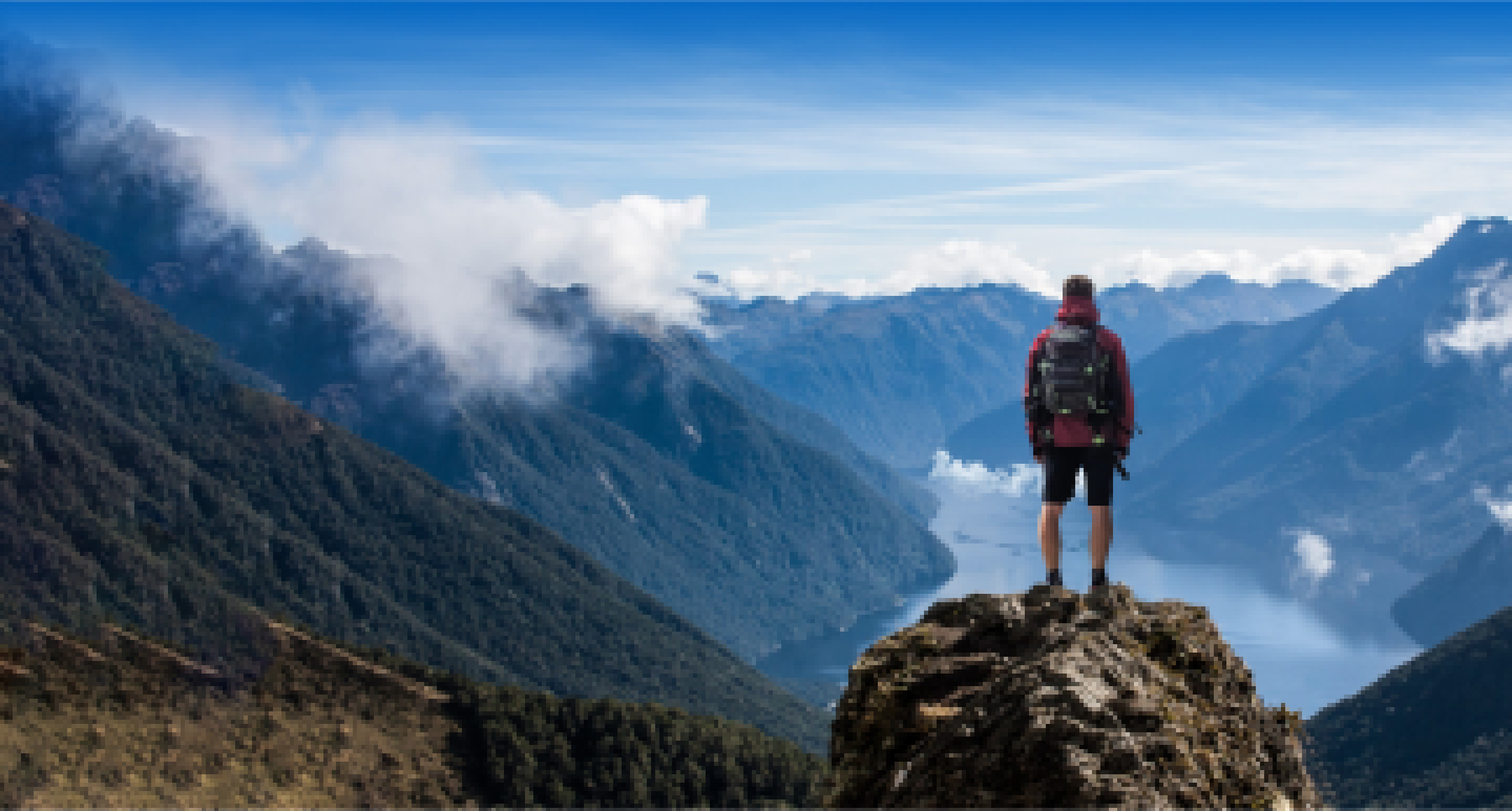
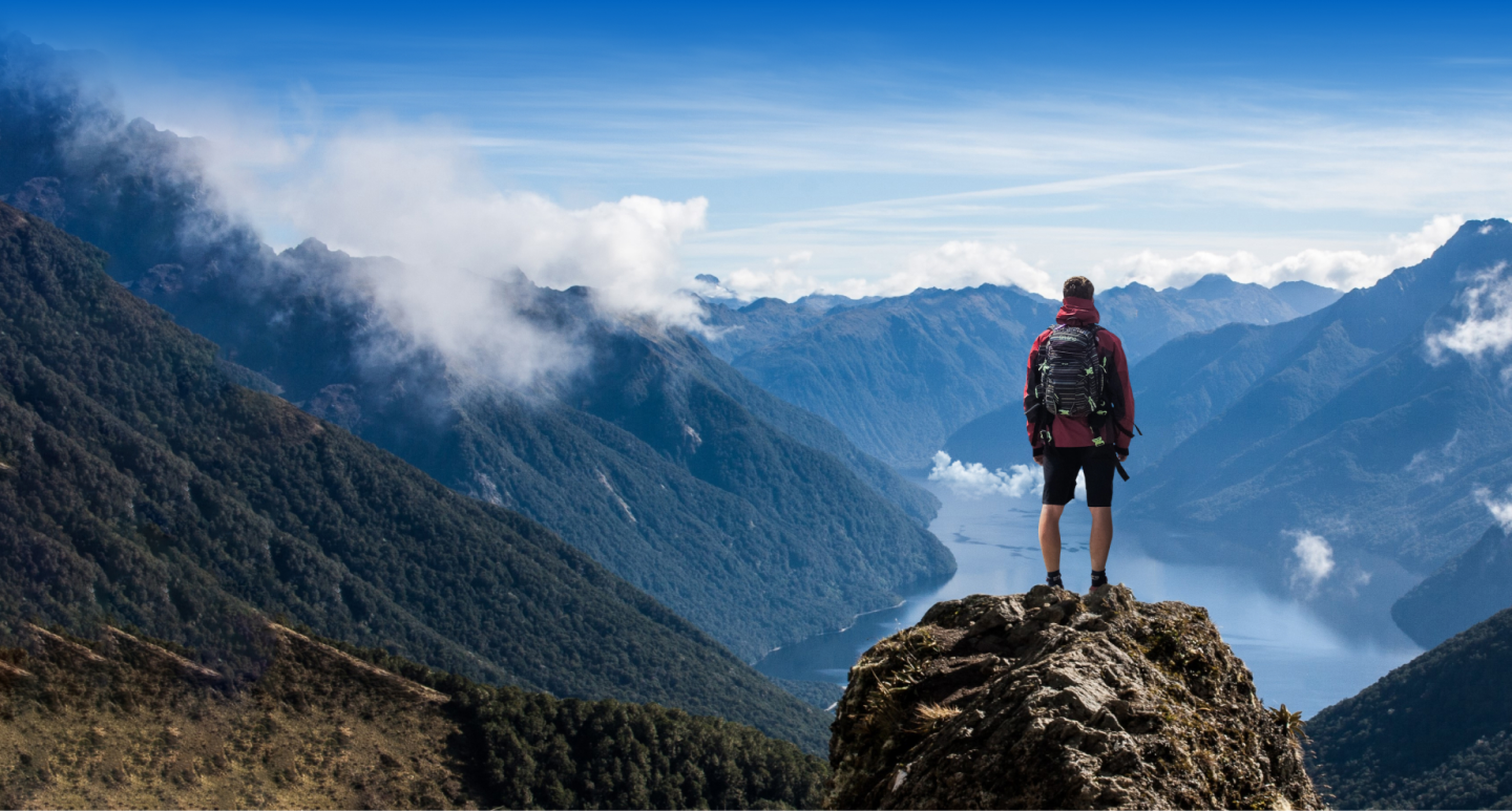
Ипсправляет графику главного экрана и ее отоброжение

diff --git a/build/css/style.min.css b/build/css/style.min.css
@@ -1,3 +1,3 @@
 /*! normalize.css v8.0.1 | MIT License | github.com/necolas/normalize.css */
-html{line-height:1.15;-webkit-text-size-adjust:100%}body{margin:0}details,img,main{display:block}h1{font-size:2em;margin:.67em 0}hr{-webkit-box-sizing:content-box;box-sizing:content-box;height:0;overflow:visible}code,kbd,pre,samp{font-family:monospace,monospace;font-size:1em}a{background-color:transparent;text-decoration:none}abbr[title]{border-bottom:none;-webkit-text-decoration:underline dotted;text-decoration:underline dotted}b,strong{font-weight:bolder}small{font-size:80%}sub,sup{font-size:75%;line-height:0;position:relative;vertical-align:baseline}sub{bottom:-.25em}sup{top:-.5em}img{border-style:none;max-width:100%;height:auto}button,input,optgroup,select,textarea{font-family:inherit;font-size:100%;line-height:1.15;margin:0}button,input{overflow:visible}button,select{text-transform:none}[type=button],[type=reset],[type=submit],button{-webkit-appearance:button}[type=button]::-moz-focus-inner,[type=reset]::-moz-focus-inner,[type=submit]::-moz-focus-inner,button::-moz-focus-inner{border-style:none;padding:0}[type=button]:-moz-focusring,[type=reset]:-moz-focusring,[type=submit]:-moz-focusring,button:-moz-focusring{outline:1px dotted ButtonText}fieldset{padding:.35em .75em .625em}legend{color:inherit;display:table;max-width:100%;white-space:normal}progress{vertical-align:baseline}textarea{overflow:auto}[type=checkbox],[type=radio],legend{-webkit-box-sizing:border-box;box-sizing:border-box;padding:0}[type=number]::-webkit-inner-spin-button,[type=number]::-webkit-outer-spin-button{height:auto}[type=search]{-webkit-appearance:textfield;outline-offset:-2px}[type=search]::-webkit-search-decoration{-webkit-appearance:none}::-webkit-file-upload-button{-webkit-appearance:button;font:inherit}summary{display:list-item}[hidden],template{display:none}@font-face{font-weight:800;font-family:"Montserrat";font-style:italic;font-display:swap;src:local("Montserrat ExtraBold Italic"),local("Montserrat-ExtraBoldItalic"),url(../fonts/montserrat-italic_800.woff2) format("woff2"),url(../fonts/montserrat-italic_800.woff) format("woff")}@font-face{font-weight:300;font-family:"Montserrat";font-style:normal;font-display:swap;src:local("Montserrat Light"),local("Montserrat-Light"),url(../fonts/montserrat_300.woff2) format("woff2"),url(../fonts/montserrat_300.woff) format("woff")}@font-face{font-weight:400;font-family:"Montserrat";font-style:normal;font-display:swap;src:local("Montserrat Regular"),local("Montserrat-Regular"),url(../fonts/montserrat_400.woff2) format("woff2"),url(../fonts/montserrat_400.woff) format("woff")}@font-face{font-weight:500;font-family:"Montserrat";font-style:normal;font-display:swap;src:local("Montserrat Medium"),local("Montserrat-Medium"),url(../fonts/montserrat_500.woff2) format("woff2"),url(../fonts/montserrat_500.woff) format("woff")}@font-face{font-weight:700;font-family:"Montserrat";font-style:normal;font-display:swap;src:local("Montserrat Bold"),local("Montserrat-Bold"),url(../fonts/montserrat_700.woff2) format("woff2"),url(../fonts/montserrat_700.woff) format("woff")}@font-face{font-weight:800;font-family:"Montserrat";font-style:normal;font-display:swap;src:local("Montserrat ExtraBold"),local("Montserrat-ExtraBold"),url(../fonts/montserrat_800.woff2) format("woff2"),url(../fonts/montserrat_800.woff) format("woff")}@font-face{font-weight:900;font-family:"Montserrat";font-style:normal;font-display:swap;src:local("Montserrat Black"),local("Montserrat-Black"),url(../fonts/montserrat_900.woff2) format("woff2"),url(../fonts/montserrat_900.woff) format("woff")}body,html{max-width:100%;height:100%;overflow-x:hidden;scroll-behavior:smooth}html{-webkit-box-sizing:border-box;box-sizing:border-box}body{position:relative;display:-webkit-box;display:-ms-flexbox;display:flex;-webkit-box-orient:vertical;-webkit-box-direction:normal;-ms-flex-direction:column;flex-direction:column;min-width:320px;font-family:"Montserrat","Arial",sans-serif;font-size:16px;font-weight:400;line-height:24px;color:#2d383f;background-color:#fff}*,::after,::before{-webkit-box-sizing:inherit;box-sizing:inherit}main{-webkit-box-flex:1;-ms-flex:1 0 auto;flex:1 0 auto}input,textarea{border-radius:0}svg{fill:inherit}.no-scroll{height:100%;overflow:hidden}.visually-hidden:not(:focus),input[type=checkbox].visually-hidden,input[type=radio].visually-hidden{position:absolute;width:1px;height:1px;margin:-1px;padding:0;overflow:hidden;white-space:nowrap;border:0;clip:rect(0,0,0,0);-webkit-clip-path:inset(100%);clip-path:inset(100%)}.button{font:inherit;border:0;display:inline-block;padding:18px 40px 0;min-height:60px;font-family:"Montserrat","Arial",sans-serif;font-size:16px;font-weight:400;line-height:158.86%;color:#fff;text-align:center;-webkit-box-sizing:border-box;box-sizing:border-box;background:0 0;background-color:#0266c1;cursor:pointer;-webkit-transition:all .3s ease-in 0s;transition:all .3s ease-in 0s}.button:focus,.button:hover{-webkit-transform:scale(1.2);transform:scale(1.2)}.button:active{color:#fff;-webkit-box-shadow:inset 0 0 0 3px #0266c1;box-shadow:inset 0 0 0 3px #0266c1;background-color:transparent}@media (max-width:1023px){.button{min-height:47px;padding-top:12px;padding-right:23px;padding-left:23px;font-size:14px}}.logo,.logo p,.social{display:-webkit-box;display:-ms-flexbox;display:flex}.logo{-webkit-box-align:center;-ms-flex-align:center;align-items:center}.logo p,.logo svg{-ms-flex-negative:0;flex-shrink:0}.logo svg{display:block;width:62px;height:auto;margin-right:22px;fill:#fff}.logo p,.social{margin:0}.logo p{-webkit-box-orient:vertical;-webkit-box-direction:normal;-ms-flex-direction:column;flex-direction:column;padding-top:5px}.logo b,.logo span{font-family:"Montserrat","Arial",sans-serif}.logo b{margin-bottom:2px;font-style:italic;text-transform:uppercase;font-size:23px;font-weight:800;line-height:28px}.logo span{font-size:8px;font-weight:400;line-height:10px}@media (max-width:1023px){.logo svg{width:37px;margin-right:13px}.logo p{padding-top:0}.logo b{margin-bottom:1px;font-size:16px;line-height:20px}.logo span{font-size:6px;line-height:7px}}@media (max-width:767px){.logo svg{width:30px;margin-right:10px}.logo b{font-size:12px;line-height:15px}.logo span{font-size:4.3px;line-height:5px}}.social{padding:0;list-style:none;-ms-flex-wrap:wrap;flex-wrap:wrap}.social__item{width:21px;height:21px;margin-right:17px}.page-header__nav-list li:last-child,.social__item:last-child{margin-right:0}.social__item a{display:-webkit-box;display:-ms-flexbox;display:flex;-webkit-box-pack:center;-ms-flex-pack:center;justify-content:center;-webkit-box-align:center;-ms-flex-align:center;align-items:center;height:100%;background-color:rgba(2,102,193,.43);-webkit-transition:all .3s ease-in 0s;transition:all .3s ease-in 0s}.social__item a:focus,.social__item a:hover{background-color:#0266c1;-webkit-transform:scale(1.2);transform:scale(1.2)}.social__item a:active{background-color:#fff}.social__item a:active svg{fill:#0266c1}.page-header a,.social__item svg{-webkit-transition:all .3s ease-in 0s;transition:all .3s ease-in 0s}.social__item svg{display:block;fill:#fff}.page-header{position:absolute;top:42px;left:0;z-index:10;width:100%;font-family:"Montserrat","Arial",sans-serif;font-size:16px;font-weight:400;line-height:25px;color:#fff;background-color:transparent}.page-header a{color:inherit}.page-header a[href]:focus,.page-header a[href]:hover{color:#2d383f;-webkit-transform:scale(1.2);transform:scale(1.2)}.page-header a[href]:focus svg,.page-header a[href]:hover svg{-webkit-transition:all .3s ease-in 0s;transition:all .3s ease-in 0s;fill:#2d383f}.page-header a:active{opacity:.5}.page-header__inner{max-width:1440px;margin:0 auto;padding:0 120px}.page-header__nav-toggle{display:none}.page-header__content{display:-webkit-box;display:-ms-flexbox;display:flex;-webkit-box-align:center;-ms-flex-align:center;align-items:center}.page-header__logo{margin-right:7%}.page-header__nav{-webkit-box-flex:1;-ms-flex-positive:1;flex-grow:1;max-width:658px;padding-top:10px}.page-header__nav-list{margin:0;padding:0;list-style:none;display:-webkit-box;display:-ms-flexbox;display:flex;-webkit-box-align:center;-ms-flex-align:center;align-items:center;-ms-flex-wrap:wrap;flex-wrap:wrap}.page-header__nav-list li{margin-right:7.2%}.page-header__nav-list a{display:block}.page-header__phone{-ms-flex-negative:0;flex-shrink:0;margin-top:10px;margin-left:8.3%;font-family:"Montserrat","Arial",sans-serif;font-size:19px;font-weight:700;line-height:30px}@media (max-width:1023px){.page-header{top:36px}.page-header__inner{max-width:1023px;margin:0 auto;padding:0 110px;display:-webkit-box;display:-ms-flexbox;display:flex;-webkit-box-align:center;-ms-flex-align:center;align-items:center}.page-header__nav-toggle{padding:0;font:inherit;color:inherit;border:0;display:block;height:16px;margin-right:auto;background-color:transparent;cursor:pointer}.page-header__nav-toggle svg{display:block;-webkit-transition:all .3s ease-in 0s;transition:all .3s ease-in 0s;fill:#fff}.page-header__nav-toggle:focus svg,.page-header__nav-toggle:hover svg{-webkit-transform:scale(1.2);transform:scale(1.2);fill:#2d383f}.page-header__nav-toggle:active{opacity:.5}.page-header__logo{margin-right:64px}.page-header__nav{display:none}.page-header__phone{margin-top:0;margin-left:0;font-size:16px;line-height:25px}}@media (max-width:767px){.page-header{top:13px}.page-header__inner{max-width:767px;margin:0 auto;padding:0 20px}.page-header__content{-webkit-box-orient:vertical;-webkit-box-direction:normal;-ms-flex-direction:column;flex-direction:column;-webkit-box-align:end;-ms-flex-align:end;align-items:flex-end}.page-header__logo{margin-right:0;margin-bottom:5px}.page-header__phone{font-size:14px;line-height:22px}}.banner,.banner::after{background-position:0 0;background-size:cover}.banner{font-family:"Montserrat","Arial",sans-serif;font-size:19px;font-weight:400;line-height:148.6%;color:#fff;background-color:#2d383f;min-height:774px;position:relative;background-image:url(../img/banner-landscape_desktop@1x.jpg);background-repeat:no-repeat}@media (-webkit-min-device-pixel-ratio:1.5),(min-resolution:144dpi),(min-resolution:1.5dppx){.banner{background-image:url(../img/banner-landscape_desktop@2x.jpg)}}.banner::after{content:"";position:absolute;bottom:-144px;left:0;width:100%;height:300px;background-image:url(../img/banner-bottom-clouds_desktop@1x.png);background-repeat:repeat}@media (-webkit-min-device-pixel-ratio:1.5),(min-resolution:144dpi),(min-resolution:1.5dppx){.banner::after{background-image:url(../img/banner-bottom-clouds_desktop@2x.png)}}.banner__inner{max-width:1440px;margin:0 auto;padding:0 120px;display:-webkit-box;display:-ms-flexbox;display:flex;-webkit-box-orient:vertical;-webkit-box-direction:normal;-ms-flex-direction:column;flex-direction:column}.banner__intro{position:relative;padding-top:294px}.banner__intro h1,.banner__intro::before{font-family:"Montserrat","Arial",sans-serif}.banner__intro h1{margin:0 0 8px;font-size:45px;font-weight:800;line-height:55px}.banner__intro p{max-width:480px;margin:0}.banner__intro::before{content:"trekking";position:absolute;top:248px;left:0;font-size:93px;font-weight:900;line-height:113px;letter-spacing:.07em;color:rgba(245,249,252,.2);text-transform:uppercase}.banner__button{margin-top:42px}.banner__social{margin-top:110px;margin-left:auto}@media (max-width:1023px){.banner{min-height:628px;font-size:16px;background-image:url(../img/banner-landscape_tablet@1x.jpg)}}@media (max-width:1023px) and (-webkit-min-device-pixel-ratio:1.5),(max-width:1023px) and (min-resolution:144dpi),(max-width:1023px) and (min-resolution:1.5dppx){.banner{background-image:url(../img/banner-landscape_tablet@2x.jpg)}}@media (max-width:1023px){.banner::after{bottom:-148px;background-position:-223px 0}.banner__inner{max-width:1023px;margin:0 auto;padding:0 110px}.banner__intro{padding-top:200px}.banner__intro::before{top:167px;font-size:69px;line-height:84px}.banner__intro h1{max-width:300px;margin-bottom:15px;font-size:35px;line-height:43px}.banner__intro p{max-width:410px}.banner__button{margin-top:30px}.banner__social{margin-top:90px}}@media (max-width:767px){.banner{min-height:470px;font-size:14px;background-image:url(../img/banner-landscape_mobile@1x.jpg)}}@media (max-width:767px) and (-webkit-min-device-pixel-ratio:1.5),(max-width:767px) and (min-resolution:144dpi),(max-width:767px) and (min-resolution:1.5dppx){.banner{background-image:url(../img/banner-landscape_mobile@2x.jpg)}}@media (max-width:767px){.banner::after{bottom:-97px;height:200px;background-image:url(../img/banner-bottom-clouds_mobile@1x.png);background-position:-211px 0}.banner__inner{max-width:767px;margin:0 auto;padding:0 20px}.banner__intro{padding-top:150px}.banner__intro::before{top:137px;font-size:41px;line-height:50px}.banner__intro h1{margin-bottom:9px;font-size:27px;line-height:33px}.banner__intro p{max-width:75%}.banner__button{margin-top:28px}.banner__social{display:none}}
+html{line-height:1.15;-webkit-text-size-adjust:100%}body{margin:0}details,img,main{display:block}h1{font-size:2em;margin:.67em 0}hr{-webkit-box-sizing:content-box;box-sizing:content-box;height:0;overflow:visible}code,kbd,pre,samp{font-family:monospace,monospace;font-size:1em}a{background-color:transparent;text-decoration:none}abbr[title]{border-bottom:none;-webkit-text-decoration:underline dotted;text-decoration:underline dotted}b,strong{font-weight:bolder}small{font-size:80%}sub,sup{font-size:75%;line-height:0;position:relative;vertical-align:baseline}sub{bottom:-.25em}sup{top:-.5em}img{border-style:none;max-width:100%;height:auto}button,input,optgroup,select,textarea{font-family:inherit;font-size:100%;line-height:1.15;margin:0}button,input{overflow:visible}button,select{text-transform:none}[type=button],[type=reset],[type=submit],button{-webkit-appearance:button}[type=button]::-moz-focus-inner,[type=reset]::-moz-focus-inner,[type=submit]::-moz-focus-inner,button::-moz-focus-inner{border-style:none;padding:0}[type=button]:-moz-focusring,[type=reset]:-moz-focusring,[type=submit]:-moz-focusring,button:-moz-focusring{outline:1px dotted ButtonText}fieldset{padding:.35em .75em .625em}legend{color:inherit;display:table;max-width:100%;white-space:normal}progress{vertical-align:baseline}textarea{overflow:auto}[type=checkbox],[type=radio],legend{-webkit-box-sizing:border-box;box-sizing:border-box;padding:0}[type=number]::-webkit-inner-spin-button,[type=number]::-webkit-outer-spin-button{height:auto}[type=search]{-webkit-appearance:textfield;outline-offset:-2px}[type=search]::-webkit-search-decoration{-webkit-appearance:none}::-webkit-file-upload-button{-webkit-appearance:button;font:inherit}summary{display:list-item}[hidden],template{display:none}@font-face{font-weight:800;font-family:"Montserrat";font-style:italic;font-display:swap;src:local("Montserrat ExtraBold Italic"),local("Montserrat-ExtraBoldItalic"),url(../fonts/montserrat-italic_800.woff2) format("woff2"),url(../fonts/montserrat-italic_800.woff) format("woff")}@font-face{font-weight:300;font-family:"Montserrat";font-style:normal;font-display:swap;src:local("Montserrat Light"),local("Montserrat-Light"),url(../fonts/montserrat_300.woff2) format("woff2"),url(../fonts/montserrat_300.woff) format("woff")}@font-face{font-weight:400;font-family:"Montserrat";font-style:normal;font-display:swap;src:local("Montserrat Regular"),local("Montserrat-Regular"),url(../fonts/montserrat_400.woff2) format("woff2"),url(../fonts/montserrat_400.woff) format("woff")}@font-face{font-weight:500;font-family:"Montserrat";font-style:normal;font-display:swap;src:local("Montserrat Medium"),local("Montserrat-Medium"),url(../fonts/montserrat_500.woff2) format("woff2"),url(../fonts/montserrat_500.woff) format("woff")}@font-face{font-weight:700;font-family:"Montserrat";font-style:normal;font-display:swap;src:local("Montserrat Bold"),local("Montserrat-Bold"),url(../fonts/montserrat_700.woff2) format("woff2"),url(../fonts/montserrat_700.woff) format("woff")}@font-face{font-weight:800;font-family:"Montserrat";font-style:normal;font-display:swap;src:local("Montserrat ExtraBold"),local("Montserrat-ExtraBold"),url(../fonts/montserrat_800.woff2) format("woff2"),url(../fonts/montserrat_800.woff) format("woff")}@font-face{font-weight:900;font-family:"Montserrat";font-style:normal;font-display:swap;src:local("Montserrat Black"),local("Montserrat-Black"),url(../fonts/montserrat_900.woff2) format("woff2"),url(../fonts/montserrat_900.woff) format("woff")}body,html{max-width:100%;height:100%;overflow-x:hidden;scroll-behavior:smooth}html{-webkit-box-sizing:border-box;box-sizing:border-box}body{position:relative;display:-webkit-box;display:-ms-flexbox;display:flex;-webkit-box-orient:vertical;-webkit-box-direction:normal;-ms-flex-direction:column;flex-direction:column;min-width:320px;font-family:"Montserrat","Arial",sans-serif;font-size:16px;font-weight:400;line-height:24px;color:#2d383f;background-color:#fff}*,::after,::before{-webkit-box-sizing:inherit;box-sizing:inherit}main{-webkit-box-flex:1;-ms-flex:1 0 auto;flex:1 0 auto}input,textarea{border-radius:0}svg{fill:inherit}.no-scroll{height:100%;overflow:hidden}.visually-hidden:not(:focus),input[type=checkbox].visually-hidden,input[type=radio].visually-hidden{position:absolute;width:1px;height:1px;margin:-1px;padding:0;overflow:hidden;white-space:nowrap;border:0;clip:rect(0,0,0,0);-webkit-clip-path:inset(100%);clip-path:inset(100%)}.button{font:inherit;border:0;display:inline-block;padding:18px 40px 0;min-height:60px;font-family:"Montserrat","Arial",sans-serif;font-size:16px;font-weight:400;line-height:158.86%;color:#fff;text-align:center;-webkit-box-sizing:border-box;box-sizing:border-box;background:0 0;background-color:#0266c1;cursor:pointer;-webkit-transition:all .3s ease-in 0s;transition:all .3s ease-in 0s}.button:focus,.button:hover{-webkit-transform:scale(1.2);transform:scale(1.2)}.button:active{color:#fff;-webkit-box-shadow:inset 0 0 0 3px #0266c1;box-shadow:inset 0 0 0 3px #0266c1;background-color:transparent}@media (max-width:1023px){.button{min-height:47px;padding-top:12px;padding-right:23px;padding-left:23px;font-size:14px}}.logo,.logo p,.social{display:-webkit-box;display:-ms-flexbox;display:flex}.logo{-webkit-box-align:center;-ms-flex-align:center;align-items:center}.logo p,.logo svg{-ms-flex-negative:0;flex-shrink:0}.logo svg{display:block;width:62px;height:auto;margin-right:22px;fill:#fff}.logo p,.social{margin:0}.logo p{-webkit-box-orient:vertical;-webkit-box-direction:normal;-ms-flex-direction:column;flex-direction:column;padding-top:5px}.logo b,.logo span{font-family:"Montserrat","Arial",sans-serif}.logo b{margin-bottom:2px;font-style:italic;text-transform:uppercase;font-size:23px;font-weight:800;line-height:28px}.logo span{font-size:8px;font-weight:400;line-height:10px}@media (max-width:1023px){.logo svg{width:37px;margin-right:13px}.logo p{padding-top:0}.logo b{margin-bottom:1px;font-size:16px;line-height:20px}.logo span{font-size:6px;line-height:7px}}@media (max-width:767px){.logo svg{width:30px;margin-right:10px}.logo b{font-size:12px;line-height:15px}.logo span{font-size:4.3px;line-height:5px}}.social{padding:0;list-style:none;-ms-flex-wrap:wrap;flex-wrap:wrap}.social__item{width:21px;height:21px;margin-right:17px}.page-header__nav-list li:last-child,.social__item:last-child{margin-right:0}.social__item a{display:-webkit-box;display:-ms-flexbox;display:flex;-webkit-box-pack:center;-ms-flex-pack:center;justify-content:center;-webkit-box-align:center;-ms-flex-align:center;align-items:center;height:100%;background-color:rgba(2,102,193,.43);-webkit-transition:all .3s ease-in 0s;transition:all .3s ease-in 0s}.social__item a:focus,.social__item a:hover{background-color:#0266c1;-webkit-transform:scale(1.2);transform:scale(1.2)}.social__item a:active{background-color:#fff}.social__item a:active svg{fill:#0266c1}.page-header a,.social__item svg{-webkit-transition:all .3s ease-in 0s;transition:all .3s ease-in 0s}.social__item svg{display:block;fill:#fff}.page-header{position:absolute;top:42px;left:0;z-index:10;width:100%;font-family:"Montserrat","Arial",sans-serif;font-size:16px;font-weight:400;line-height:25px;color:#fff;background-color:transparent}.page-header a{color:inherit}.page-header a[href]:focus,.page-header a[href]:hover{color:#2d383f;-webkit-transform:scale(1.2);transform:scale(1.2)}.page-header a[href]:focus svg,.page-header a[href]:hover svg{-webkit-transition:all .3s ease-in 0s;transition:all .3s ease-in 0s;fill:#2d383f}.page-header a:active{opacity:.5}.page-header__inner{max-width:1440px;margin:0 auto;padding:0 120px}.page-header__nav-toggle{display:none}.page-header__content{display:-webkit-box;display:-ms-flexbox;display:flex;-webkit-box-align:center;-ms-flex-align:center;align-items:center}.page-header__logo{margin-right:7%}.page-header__nav{-webkit-box-flex:1;-ms-flex-positive:1;flex-grow:1;max-width:658px;padding-top:10px}.page-header__nav-list{margin:0;padding:0;list-style:none;display:-webkit-box;display:-ms-flexbox;display:flex;-webkit-box-align:center;-ms-flex-align:center;align-items:center;-ms-flex-wrap:wrap;flex-wrap:wrap}.page-header__nav-list li{margin-right:7.2%}.page-header__nav-list a{display:block}.page-header__phone{-ms-flex-negative:0;flex-shrink:0;margin-top:10px;margin-left:8.3%;font-family:"Montserrat","Arial",sans-serif;font-size:19px;font-weight:700;line-height:30px}@media (max-width:1023px){.page-header{top:36px}.page-header__inner{max-width:1023px;margin:0 auto;padding:0 110px;display:-webkit-box;display:-ms-flexbox;display:flex;-webkit-box-align:center;-ms-flex-align:center;align-items:center}.page-header__nav-toggle{padding:0;font:inherit;color:inherit;border:0;display:block;height:16px;margin-right:auto;background-color:transparent;cursor:pointer}.page-header__nav-toggle svg{display:block;-webkit-transition:all .3s ease-in 0s;transition:all .3s ease-in 0s;fill:#fff}.page-header__nav-toggle:focus svg,.page-header__nav-toggle:hover svg{-webkit-transform:scale(1.2);transform:scale(1.2);fill:#2d383f}.page-header__nav-toggle:active{opacity:.5}.page-header__logo{margin-right:64px}.page-header__nav{display:none}.page-header__phone{margin-top:0;margin-left:0;font-size:16px;line-height:25px}}@media (max-width:767px){.page-header{top:13px}.page-header__inner{max-width:767px;margin:0 auto;padding:0 20px}.page-header__content{-webkit-box-orient:vertical;-webkit-box-direction:normal;-ms-flex-direction:column;flex-direction:column;-webkit-box-align:end;-ms-flex-align:end;align-items:flex-end}.page-header__logo{margin-right:0;margin-bottom:5px}.page-header__phone{font-size:14px;line-height:22px}}.banner,.banner::after{background-position:center;background-size:cover}.banner{font-family:"Montserrat","Arial",sans-serif;font-size:19px;font-weight:400;line-height:148.6%;color:#fff;background-color:#2d383f;min-height:774px;position:relative;background-image:url(../img/banner-landscape_desktop@1x.jpg);background-repeat:no-repeat}@media (-webkit-min-device-pixel-ratio:1.5),(min-resolution:144dpi),(min-resolution:1.5dppx){.banner{background-image:url(../img/banner-landscape_desktop@2x.jpg)}}.banner::after{content:"";position:absolute;bottom:-1px;left:0;width:100%;height:140px;background-image:url(../img/banner-bottom-clouds_desktop@1x.png);background-repeat:repeat}@media (-webkit-min-device-pixel-ratio:1.5),(min-resolution:144dpi),(min-resolution:1.5dppx){.banner::after{background-image:url(../img/banner-bottom-clouds_desktop@2x.png)}}.banner__inner{max-width:1440px;margin:0 auto;padding:0 120px;display:-webkit-box;display:-ms-flexbox;display:flex;-webkit-box-orient:vertical;-webkit-box-direction:normal;-ms-flex-direction:column;flex-direction:column}.banner__intro{position:relative;padding-top:294px}.banner__intro h1,.banner__intro::before{font-family:"Montserrat","Arial",sans-serif}.banner__intro h1{margin:0 0 8px;font-size:45px;font-weight:800;line-height:55px}.banner__intro p{max-width:480px;margin:0}.banner__intro::before{content:"trekking";position:absolute;top:248px;left:0;font-size:93px;font-weight:900;line-height:113px;letter-spacing:.07em;color:rgba(245,249,252,.2);text-transform:uppercase}.banner__button{margin-top:42px}.banner__social{margin-top:110px;margin-left:auto}@media (max-width:1023px){.banner{min-height:628px;font-size:16px;background-image:url(../img/banner-landscape_tablet@1x.jpg);background-position:56% 0}}@media (max-width:1023px) and (-webkit-min-device-pixel-ratio:1.5),(max-width:1023px) and (min-resolution:144dpi),(max-width:1023px) and (min-resolution:1.5dppx){.banner{background-image:url(../img/banner-landscape_tablet@2x.jpg)}}@media (max-width:1023px){.banner::after{bottom:-8px;background-position:33% 0}.banner__inner{max-width:1023px;margin:0 auto;padding:0 110px}.banner__intro{padding-top:200px}.banner__intro::before{top:167px;font-size:69px;line-height:84px}.banner__intro h1{max-width:300px;margin-bottom:15px;font-size:35px;line-height:43px}.banner__intro p{max-width:410px}.banner__button{margin-top:30px}.banner__social{margin-top:90px}}@media (max-width:767px){.banner{min-height:470px;font-size:14px;background-image:url(../img/banner-landscape_mobile@1x.jpg);background-position:62.7% 0}}@media (max-width:767px) and (-webkit-min-device-pixel-ratio:1.5),(max-width:767px) and (min-resolution:144dpi),(max-width:767px) and (min-resolution:1.5dppx){.banner{background-image:url(../img/banner-landscape_mobile@2x.jpg)}}@media (max-width:767px){.banner::after{bottom:-14px;height:100px;background-image:url(../img/banner-bottom-clouds_mobile@1x.png);background-position:35.8% 0}}@media (max-width:767px) and (-webkit-min-device-pixel-ratio:1.5),(max-width:767px) and (min-resolution:144dpi),(max-width:767px) and (min-resolution:1.5dppx){.banner::after{background-image:url(../img/banner-bottom-clouds_mobile@2x.png)}}@media (max-width:767px){.banner__inner{max-width:767px;margin:0 auto;padding:0 20px}.banner__intro{padding-top:150px}.banner__intro::before{top:137px;font-size:41px;line-height:50px}.banner__intro h1{margin-bottom:9px;font-size:27px;line-height:33px}.banner__intro p{max-width:75%}.banner__button{margin-top:28px}.banner__social{display:none}}
 /*# sourceMappingURL=style.min.css.map */

diff --git a/source/sass/blocks/banner.scss b/source/sass/blocks/banner.scss
@@ -7,7 +7,7 @@
   background-color: $background-color_secondary;
   background-image: url("../img/banner-landscape_desktop@1x.jpg");
   background-repeat: no-repeat;
-  background-position: 0 0;
+  background-position: center;
   background-size: cover;
 
   min-height: 774px;
@@ -20,15 +20,15 @@
     content: "";
 
     position: absolute;
-    bottom: -144px;
+    bottom: -1px;
     left: 0;
 
     width: 100%;
-    height: 300px;
+    height: 140px;
 
     background-image: url("../img/banner-bottom-clouds_desktop@1x.png");
     background-repeat: repeat;
-    background-position: 0 0;
+    background-position: center;
     background-size: cover;
 
     @media (min-resolution: $retina-dpi), (min-resolution: $retina-dppx) {
@@ -90,15 +90,16 @@
     font-size: $font-size_m;
 
     background-image: url("../img/banner-landscape_tablet@1x.jpg");
+    background-position: 56% 0;
 
     @media (min-resolution: $retina-dpi), (min-resolution: $retina-dppx) {
       background-image: url("../img/banner-landscape_tablet@2x.jpg");
     }
 
     &::after {
-      bottom: -148px;
+      bottom: -8px;
 
-      background-position: -223px 0;
+      background-position: 33% 0;
     }
   }
 
@@ -146,18 +147,23 @@
     font-size: $font-size_s;
 
     background-image: url("../img/banner-landscape_mobile@1x.jpg");
+    background-position: 62.7% 0;
 
     @media (min-resolution: $retina-dpi), (min-resolution: $retina-dppx) {
       background-image: url("../img/banner-landscape_mobile@2x.jpg");
     }
 
     &::after {
-      bottom: -97px;
+      bottom: -14px;
 
-      height: 200px;
+      height: 100px;
 
       background-image: url("../img/banner-bottom-clouds_mobile@1x.png");
-      background-position: -211px 0;
+      background-position: 35.8% 0;
+
+      @media (min-resolution: $retina-dpi), (min-resolution: $retina-dppx) {
+        background-image: url("../img/banner-bottom-clouds_mobile@2x.png");
+      }
     }
   }
 
